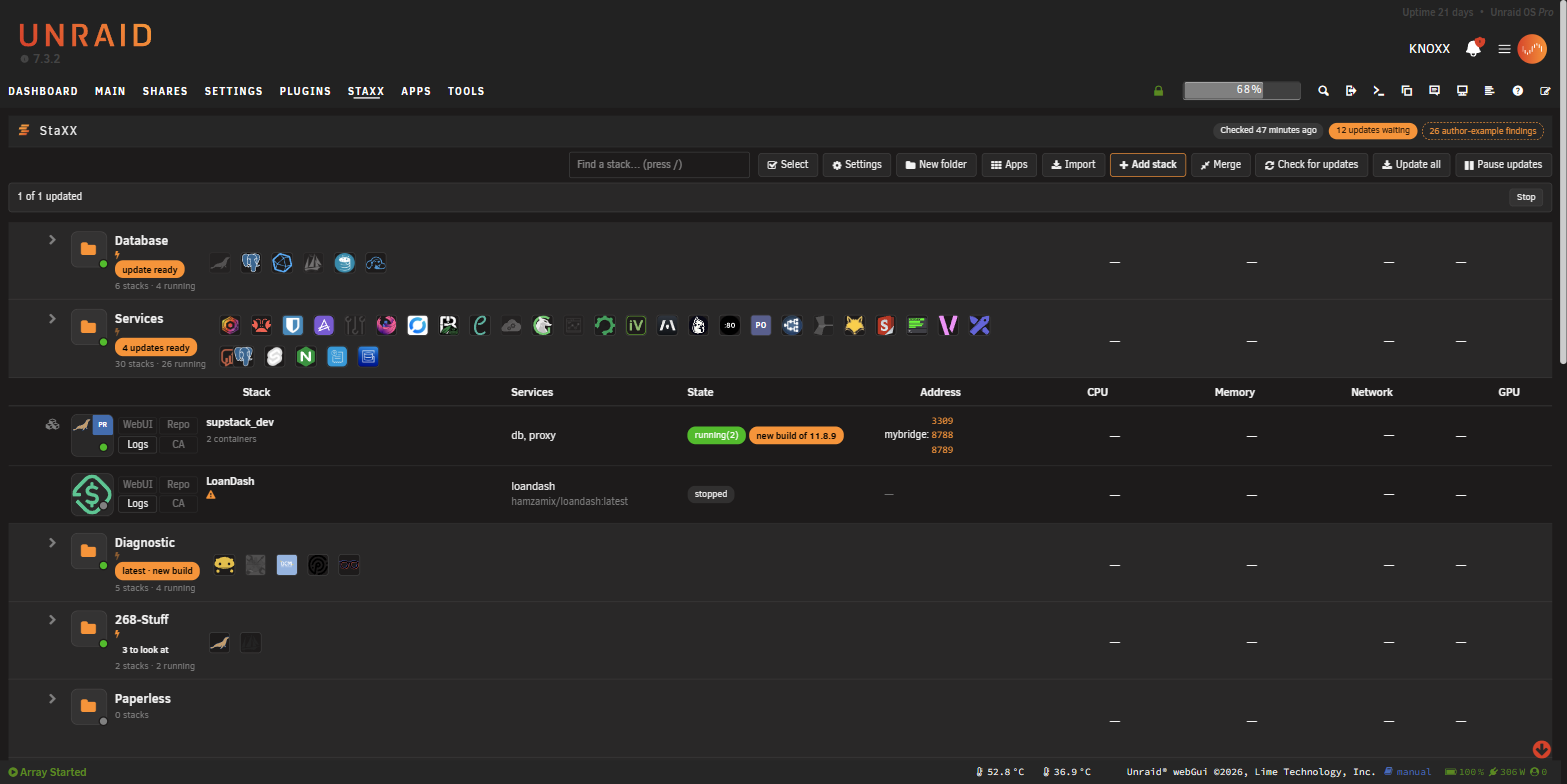
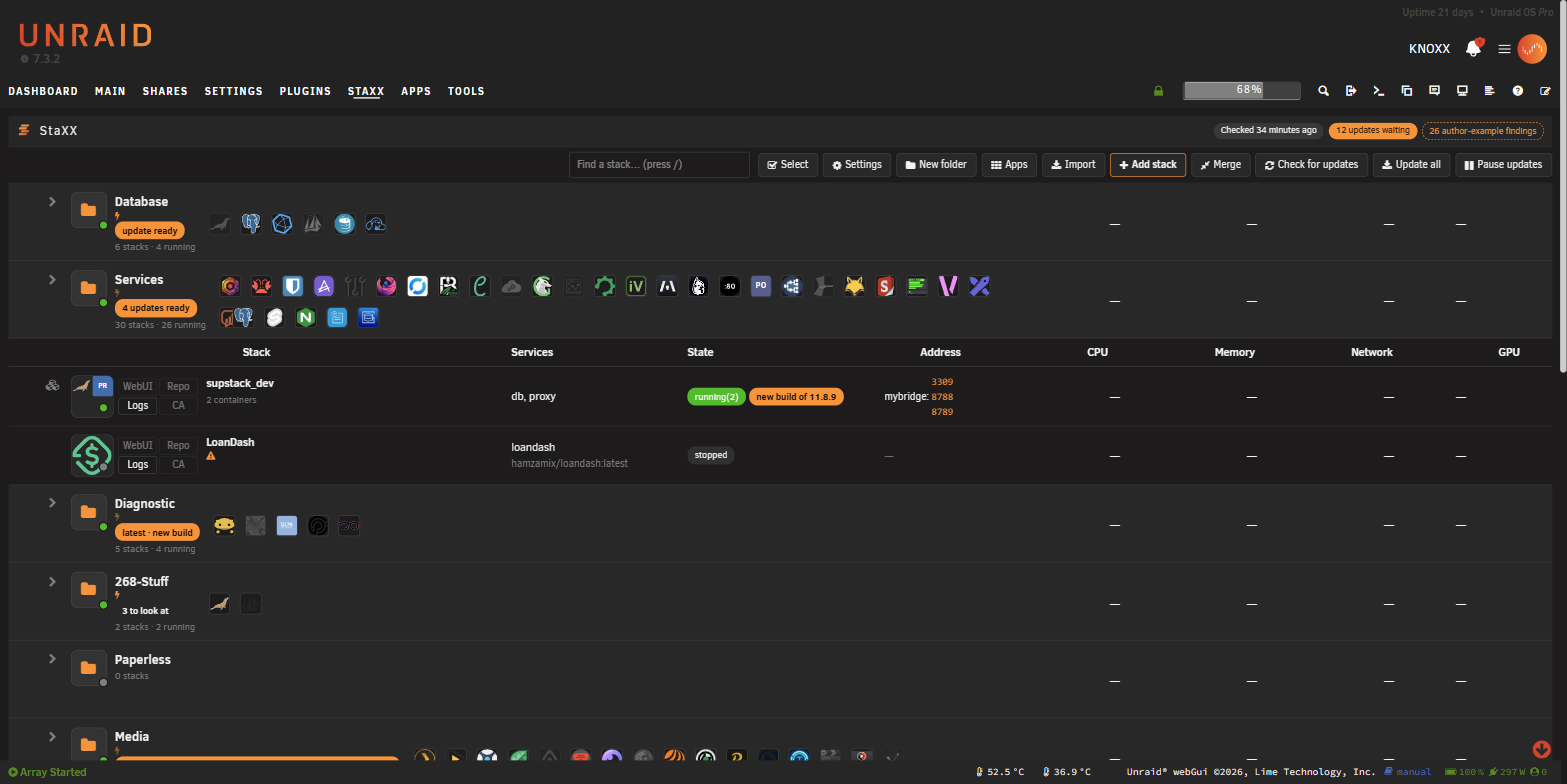
Three open bugs: the clash tooltip's quote, the Updating pill left on a rebuilt row, the finished queue line
The name clash pill's wording quotes the project name and is spliced into a
title attribute, so the first quote ended the attribute; quotes become
entities there now. A job's finish handler cleared the rows it captured at
the start, which a rows refresh mid-job had replaced, so the new row kept
its busy pill until the abandon timer; the ticker now clears the rows the
entry currently knows before handing over. The update queue's progress line
hid only on an empty queue, so a finished one kept its tally and a Stop
button; it hides as soon as nothing is running or waiting. Guide: the stack
list's whole-screen shot re-taken without that line.

Claude-Session: https://claude.ai/code/session_01UELg1yad4KTJTs4uTzsC5o

diff --git a/src/staxx/usr/local/emhttp/plugins/staxx/javascript/stacks.js b/src/staxx/usr/local/emhttp/plugins/staxx/javascript/stacks.js
@@ -18859,6 +18859,16 @@
               ? ' — failed (exit ' + part.exit + ')'
               : ' — done';
           }
+          // Cleared here, on the rows this entry knows NOW, before the
+          // caller's own done() clears the rows it captured when the job
+          // started. Those can be different: a rows refresh mid-job rebuilds
+          // every row element and restoreBusy() re-points entry.rows at the
+          // new ones, but the closure still holds the detached originals —
+          // so its clearBusy() cleared nothing on screen and the new row kept
+          // its "Updating…" pill until the abandon timer (found 2026-09-17,
+          // a hand-pressed pull on a stopped stack). clearBusy() is safe to
+          // run twice.
+          clearBusy(entry.rows);
           if (entry.done) entry.done({ text: entry.text, exit: part.exit, done: true });
           // PLAN_71 stage 5: every job — start, stop, restart, an update,
           // anything — can move the running side of the comparison, so this
@@ -20388,7 +20398,13 @@
 
   function paintUpdateQueue(queue) {
     if (!queueBar) return;
-    if (!queue || !queue.items || !queue.items.length) {
+    // Shown only while something is running or waiting. A finished queue
+    // used to keep painting its final tally with a Stop button that had
+    // nothing left to stop, until the queue was cleared — Adrian's card of
+    // 2026-09-17, "Unknown status or notification bar". What the queue did
+    // is on the rows' own pills by then; applyQueue() already refreshes them
+    // on the transition to finished.
+    if (!queueIsLive(queue)) {
       queueBar.hidden = true;
       queueBar.innerHTML = '';
       return;

diff --git a/src/staxx/usr/local/emhttp/plugins/staxx/include/StacksTable.php b/src/staxx/usr/local/emhttp/plugins/staxx/include/StacksTable.php
@@ -272,6 +272,12 @@ function staxx_clash_pill_html(array $clash, string $project): string {
     _('Shares the name "%1$s" with %2$s. Docker can only run one project under that name — rename one of these stacks, or delete the one that is not in use.'),
     htmlspecialchars($project), $others
   );
+  // The wording quotes the project name, and this whole string is spliced
+  // into a title="…" attribute below, so a literal double quote ended the
+  // attribute at the first one and the tooltip read only `Shares the name`
+  // (found 2026-09-17). _() leaves double quotes alone, so they are turned
+  // into entities here, and only here — the rest is already HTML.
+  $title = str_replace('"', '&quot;', $title);
   // Not escaped again — _() returns HTML; see staxx_state_pill() above.
   return ' <span class="staxx-pill staxx-pill--warn" title="'.$title.'">'._('name clash').'</span>';
 }

diff --git a/CHANGELOG.md b/CHANGELOG.md
@@ -18,6 +18,9 @@ before that were dates.
 
 ## Unreleased
 
+- The **name clash** pill's tooltip now names the other stack. It used to stop after "Shares the name".
+- A row no longer keeps saying **Updating…** after a pull or update has finished when the list was redrawn while it ran.
+- The update queue's progress line disappears as soon as nothing is running or waiting, instead of sitting there with a finished tally and a Stop button that had nothing to stop.
 - Roll back is offered again. A row's menu decides whether to show **Roll back…** from where StaXX now keeps its image history, so an update recorded since that move is once more something you can undo from the menu. A stack with a single service, which has no container row of its own, now gets the item on the stack's own menu.
 - The user guide now reads as a manual. Every page was rewritten to teach a feature step by step, without narrating how the screen reacts or why a thing was built as it was, and gained close-ups of the controls it points at.
 - Clicking a service's icon now opens the editor in the same split view as clicking the stack's own icon, scrolled to that service, instead of the form on its own.

diff --git a/docs/guide/the-stack-list.md b/docs/guide/the-stack-list.md
@@ -5,7 +5,7 @@
 This is the screen you land on. It lists every stack, one row each. This page walks it top to
 bottom, part by part.
 
-![The whole StaXX page: the title bar with its three chips top right, the Find a stack box and the row of buttons beneath it, a progress line for a finished job, then the column headings and a list of folder and stack rows](../images/guide/the-stack-list-whole-screen.png)
+![The whole StaXX page: the title bar with its three chips top right, the Find a stack box and the row of buttons beneath it, then the column headings and a list of folder and stack rows](../images/guide/the-stack-list-whole-screen.png)
 
 ## The buttons along the top
 
